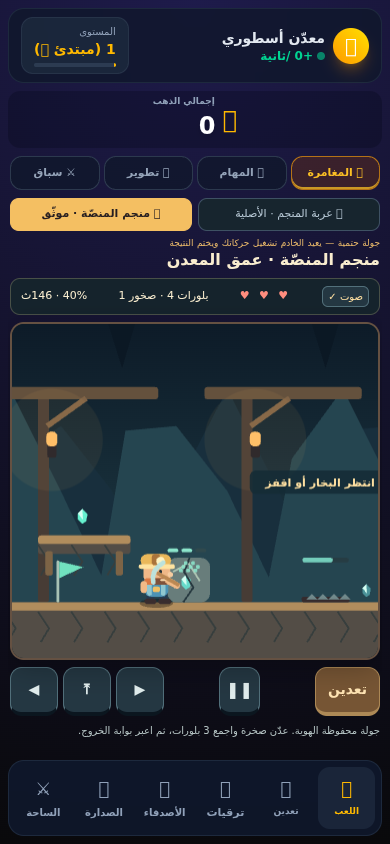
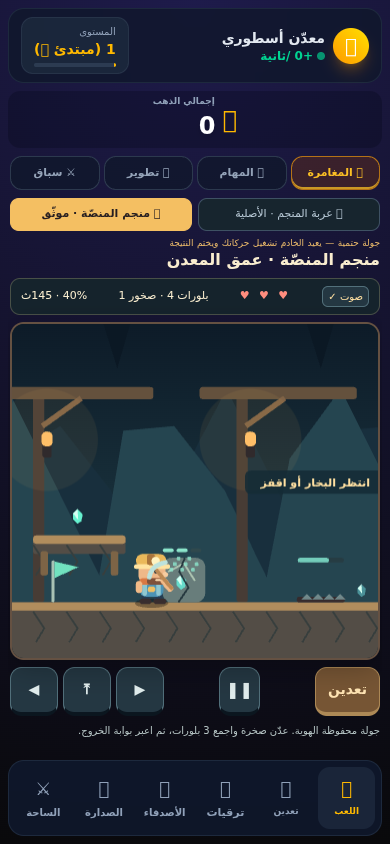
Fix cross-scene keyboard input and preserve quick platform action taps

diff --git a/test/platform-ui.test.js b/test/platform-ui.test.js
@@ -136,12 +136,12 @@ function bootPage({ failServer = false, storedRun = null } = {}) {
   ctx.window = ctx; ctx.globalThis = ctx; ctx.self = ctx; ctx.document.defaultView = ctx;
   vm.createContext(ctx);
   let topLevelError = null;
-  try { vm.runInContext(`${script}\n;globalThis.__dbg = () => ({ serverMode, profile, state, SYNC });`, ctx, { filename: 'index.html' }); }
+  try { vm.runInContext(`${script}\n;globalThis.__dbg = () => ({ serverMode, profile, state, SYNC, legacyRunning: adv.running });`, ctx, { filename: 'index.html' }); }
   catch (e) { topLevelError = e; }
 
   const fire = (el, type, event = {}) => { for (const fn of el?._listeners?.[type] || []) fn({ preventDefault: noop, ...event }); };
   const fireWindow = (type, event = {}) => { for (const [t, fn] of windowListeners) if (t === type) fn({ preventDefault: noop, target: { tagName: 'BODY' }, ...event }); };
-  const key = (type, code) => fireWindow(type, { code, key: code });
+  const key = (type, code) => fireWindow(type, { code, key: ({ Space: ' ', KeyE: 'e', KeyD: 'd', KeyA: 'a' })[code] || code });
   const settle = async () => {
     for (let i = 0; i < 12; i++) {
       for (const fn of timers.splice(0)) { try { fn(); } catch (e) { log.errors.push(`timer: ${e.message}`); } }
@@ -274,4 +274,33 @@ test('platform UI: without a server identity the round is offline training — p
   page.key('keyup', 'ArrowRight');
   assert.equal(page.log.fetches.some((u) => u.startsWith('/api/platform')), false, 'offline play never touches the platform API');
   assert.deepEqual(page.log.errors, []);
+});
+
+
+test('platform UI: a quick jump tap survives the fixed-step boundary without starting a hidden legacy round', async () => {
+  const page = bootPage(); await page.settle();
+  page.fire(page.byId('platform-mode'), 'click');
+  page.fire(page.byId('platform-start'), 'click'); await page.settle();
+  page.key('keydown', 'Space'); page.key('keyup', 'Space');
+  page.flushFrames(3);
+  assert.equal(page.PlatformGame().inspect().pose, 'jump');
+  assert.ok(page.PlatformGame().inspect().y < 262);
+  assert.equal(page.dbg().legacyRunning, false);
+  page.flushFrames(90);
+  assert.equal(page.PlatformGame().inspect().y, 262, 'a released tap never causes repeated jumping');
+  page.fireWindow('blur');
+  page.key('keydown', 'Space'); page.key('keyup', 'Space'); // no queued jump while paused
+  page.fire(page.byId('platform-resume'), 'click'); page.flushFrames(3);
+  assert.equal(page.PlatformGame().inspect().y, 262);
+  assert.deepEqual(page.log.errors, []);
+});
+
+test('legacy keyboard: Space still starts the visible old adventure, but not another play panel', async () => {
+  const page = bootPage(); await page.settle();
+  page.byId('play-panel-adventure').classList.remove('active');
+  page.key('keydown', 'Space'); page.key('keyup', 'Space');
+  assert.equal(page.dbg().legacyRunning, false);
+  page.byId('play-panel-adventure').classList.add('active');
+  page.key('keydown', 'Space'); page.key('keyup', 'Space');
+  assert.equal(page.dbg().legacyRunning, true);
 });

diff --git a/public/platform-game.js b/public/platform-game.js
@@ -11,6 +11,7 @@
   let raf = 0, last = 0, accumulator = 0;
   let audio = null, muted = false, particles = [];
   const keys = new Set(), pointers = new Map();
+  let pressed = 0; // Preserve quick jump/mine taps until the next fixed physics tick.
   const reduced = Boolean(window.matchMedia?.('(prefers-reduced-motion: reduce)').matches);
   try { muted = localStorage.getItem('platform-muted') === 'true'; } catch (_) {}
   const keyMap = { ArrowLeft: 1, KeyA: 1, ArrowRight: 2, KeyD: 2, Space: 4, ArrowUp: 4, KeyW: 4, KeyE: 8, KeyX: 8 };
@@ -19,7 +20,7 @@
   const visible = () => !document.hidden && !el('platform-scene').hidden && el('play-panel-adventure').classList.contains('active') && el('tab-play').classList.contains('active');
   const draw = () => renderer.draw(canvas, sim, { reduced, particles });
   function clearInput() {
-    keys.clear(); pointers.clear();
+    keys.clear(); pointers.clear(); pressed = 0;
     document.querySelectorAll('[data-platform-input]').forEach(b => { b.dataset.down = 'false'; });
   }
   function audioUnlock() {
@@ -90,12 +91,13 @@
     accumulator += Math.min(.1, (time - last) / 1000); last = time;
     let count = 0;
     while (accumulator >= R.DT && count++ < 6 && sim.status === 'playing') {
-      let mask = 0;
+      let mask = pressed;
       for (const key of keys) mask |= keyMap[key] || 0;
       for (const value of pointers.values()) mask |= value;
       if (inputs.length >= 1000 && inputs[inputs.length - 1].mask !== mask) {
         pause(); say('وصلت إلى حد تسجيل الحركات؛ أعد بدء الجولة.'); return;
       }
+      pressed = 0;
       record(mask); R.step(sim, mask); consumeEvents(); accumulator -= R.DT;
       if (sim.tick % 120 === 0) save();
     }
@@ -187,7 +189,7 @@
   for (const button of document.querySelectorAll('[data-platform-input]')) {
     button.addEventListener('pointerdown', e => {
       e.preventDefault(); if (!running || paused) return;
-      audioUnlock(); button.setPointerCapture?.(e.pointerId); pointers.set(e.pointerId, Number(button.dataset.platformInput)); button.dataset.down = 'true';
+      audioUnlock(); button.setPointerCapture?.(e.pointerId); pointers.set(e.pointerId, Number(button.dataset.platformInput)); pressed |= Number(button.dataset.platformInput) & 12; button.dataset.down = 'true';
     });
     const release = e => { pointers.delete(e.pointerId); button.dataset.down = 'false'; };
     for (const type of ['pointerup', 'pointercancel', 'lostpointercapture']) button.addEventListener(type, release);
@@ -195,7 +197,7 @@
   }
   window.addEventListener('keydown', e => {
     if (!visible() || !keyMap[e.code] || /INPUT|TEXTAREA|SELECT/.test(e.target?.tagName || '')) return;
-    e.preventDefault(); if (running && !paused) keys.add(e.code);
+    e.preventDefault(); if (running && !paused) { keys.add(e.code); if (!e.repeat) pressed |= keyMap[e.code] & 12; }
   });
   window.addEventListener('keyup', e => { keys.delete(e.code); });
   window.addEventListener('blur', pause);

diff --git a/public/index.html b/public/index.html
@@ -2595,7 +2595,11 @@
     advCanvas.addEventListener('pointerdown', (e) => { advCanvas.setPointerCapture?.(e.pointerId); moveAdventureTo(e.clientX); });
     advCanvas.addEventListener('pointermove', (e) => { if (e.buttons || e.pointerType === 'touch') moveAdventureTo(e.clientX); });
     window.addEventListener('keydown', (e) => {
-      if (!document.getElementById('tab-play').classList.contains('active')) return;
+      // The legacy scene must not consume platform jumps or start a hidden round.
+      if (!document.getElementById('tab-play').classList.contains('active')
+          || !document.getElementById('play-panel-adventure').classList.contains('active')
+          || document.getElementById('legacy-adventure').hidden
+          || /INPUT|TEXTAREA|SELECT/.test(e.target?.tagName || '')) return;
       if (['ArrowLeft', 'ArrowRight', ' '].includes(e.key)) e.preventDefault();
       advKeys[e.key] = true;
       if (e.key === ' ' && adv.running) useAdventureSkill();
@@ -2906,6 +2910,6 @@
   <!-- جسر منجم المنصّة: يربط مشهد اللعبة بواجهات المزامنة والمصادقة أعلاه -->
   <script src="/platform-bridge.js?v=1"></script>
   <!-- متحكم مشهد منجم المنصّة: خطوة ثابتة 60Hz وتسجيل حركات يتحقق منها الخادم -->
-  <script src="/platform-game.js?v=2"></script>
+  <script src="/platform-game.js?v=3"></script>
 </body>
 </html>
